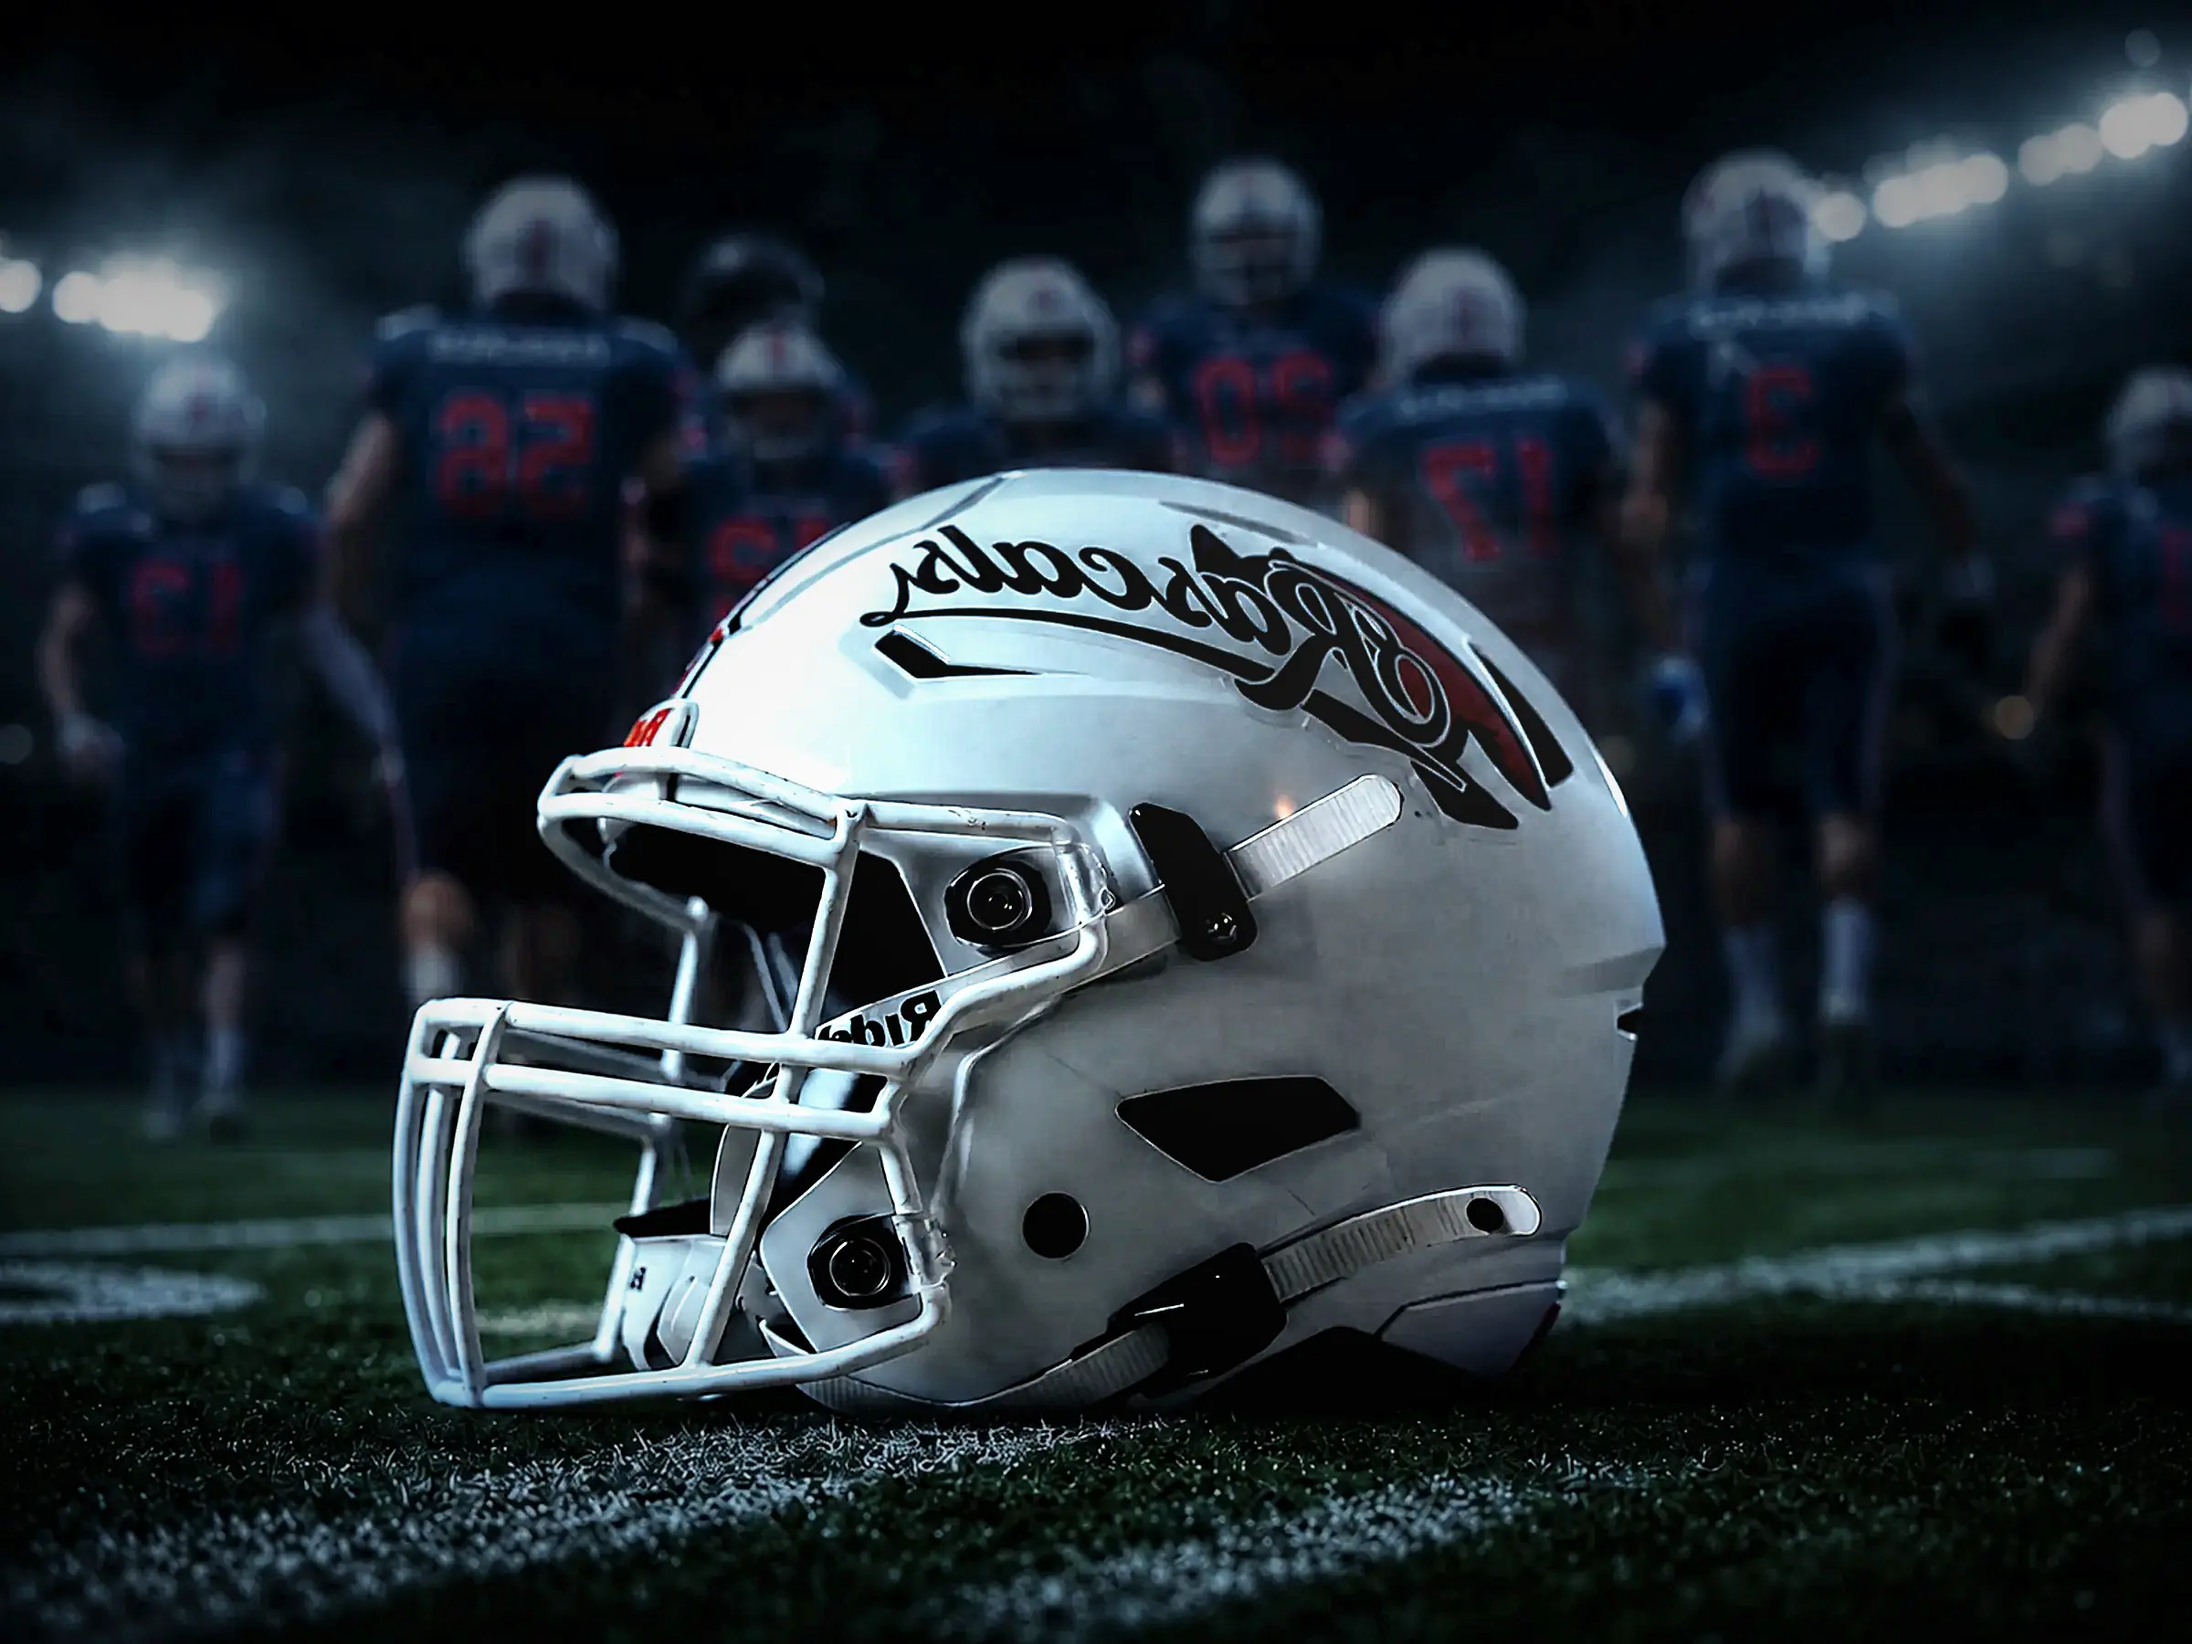
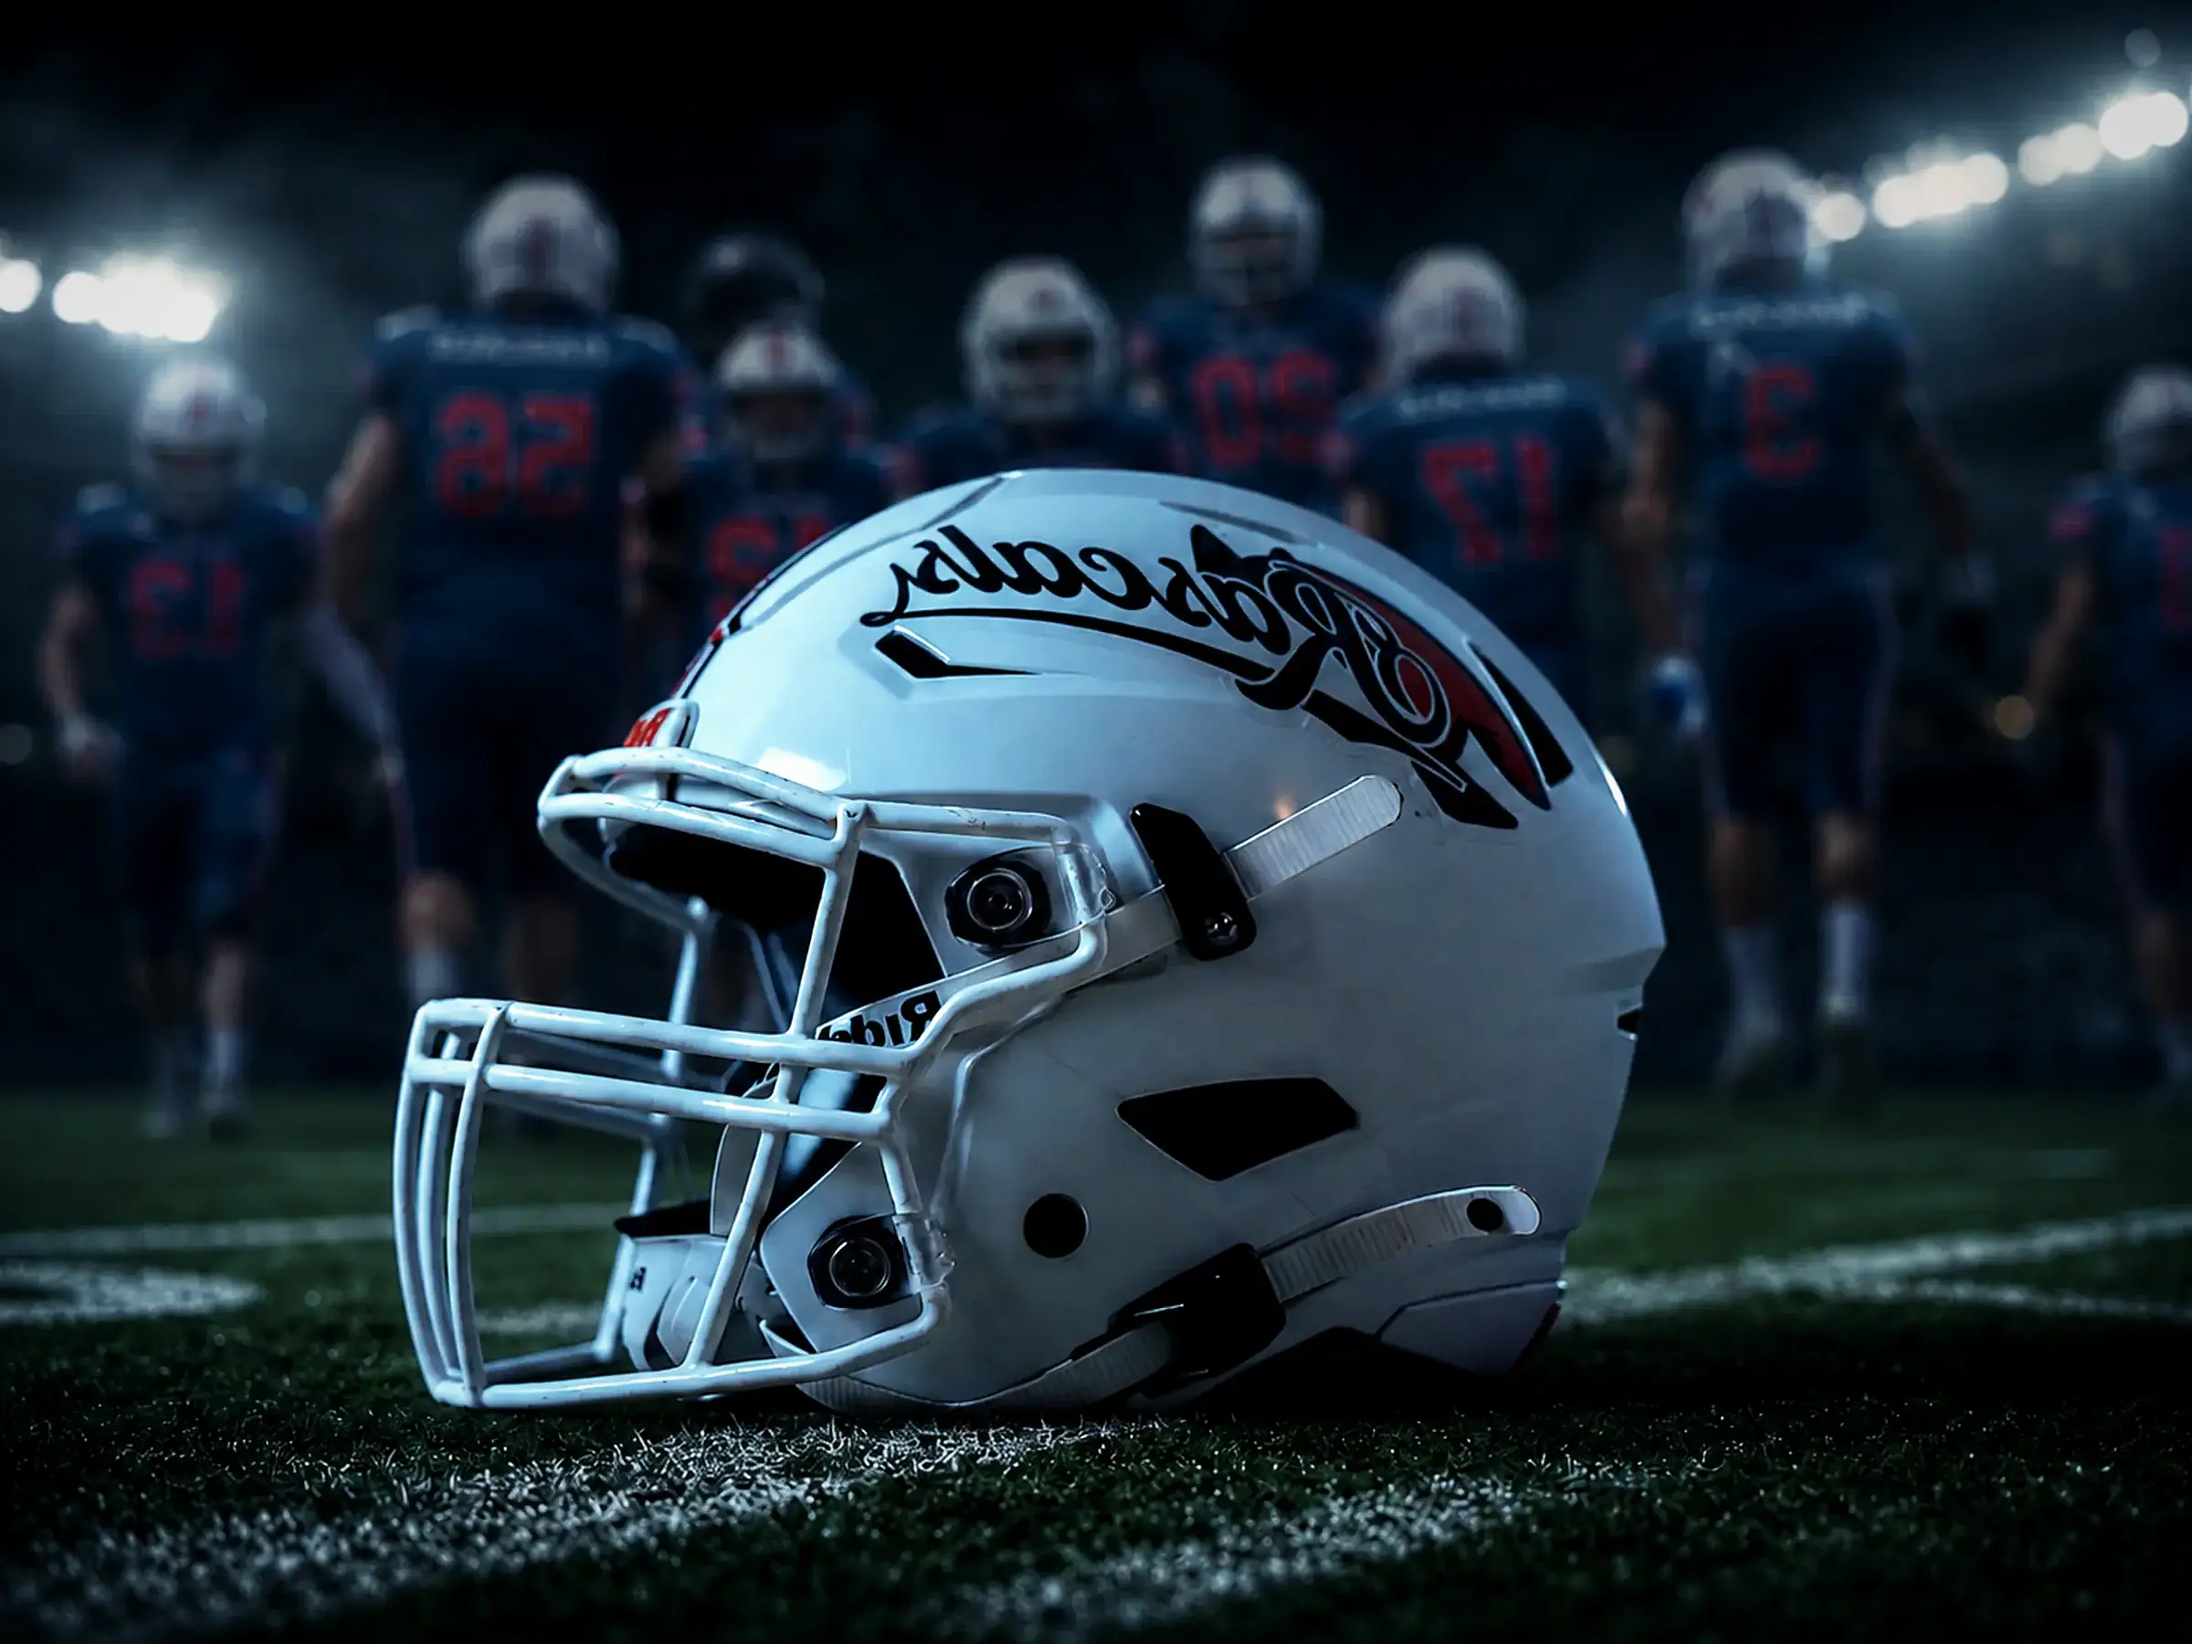
Teamshop: Helm natürlicher bearbeitet
Die vorige Fassung bearbeitete Helm und Umgebung getrennt (Maske) und
nutzte starken lokalen Kontrast; das erzeugte einen hellen Hof um den
Helm und einen körnigen, künstlichen Look. Jetzt nur noch globale,
dezente Korrekturen am gespiegelten Original: leichter Blaustich raus,
etwas heller, sanfte S-Kurve, leichte Vibranz und Schärfe, schwache
Vignette.

Claude-Session: https://claude.ai/code/session_01VkdeDPYWPcbrmHGSxU5d2N

diff --git a/shopify-theme/rascals-teamshop/assets/teamshop.css b/shopify-theme/rascals-teamshop/assets/teamshop.css
@@ -349,8 +349,8 @@ body:hover .football-cursor { opacity: .85; }
    Der Rahmen hat die Groesse des Fotos, steht unten auf (der Helm setzt auf
    den Kacheln auf) und ist groesser als der Hero: der Himmel oben im Foto
    liegt ausserhalb und wird abgeschnitten. Der Helm blickt nach links zur
-   Schlagzeile: das Originalfoto, nur gespiegelt und in Licht und Kontrast
-   kraeftiger. Er steht im Foto bei 17-75 % Breite und 27-88 % Hoehe. */
+   Schlagzeile: das Originalfoto, nur gespiegelt, dezent heller und
+   kontrastreicher (nur globale Korrektur, keine Masken). Er steht im Foto bei 17-75 % Breite und 27-88 % Hoehe. */
 .hero-stage__stage { z-index: 3; right: var(--stage-x, 3%); bottom: 46px; width: var(--stage-w, 50%); aspect-ratio: 4 / 3; }
 .hero-stage:not(.hero-stage--under-tiles) .hero-stage__stage { bottom: -40px; }
 .hero-stage__photo {
